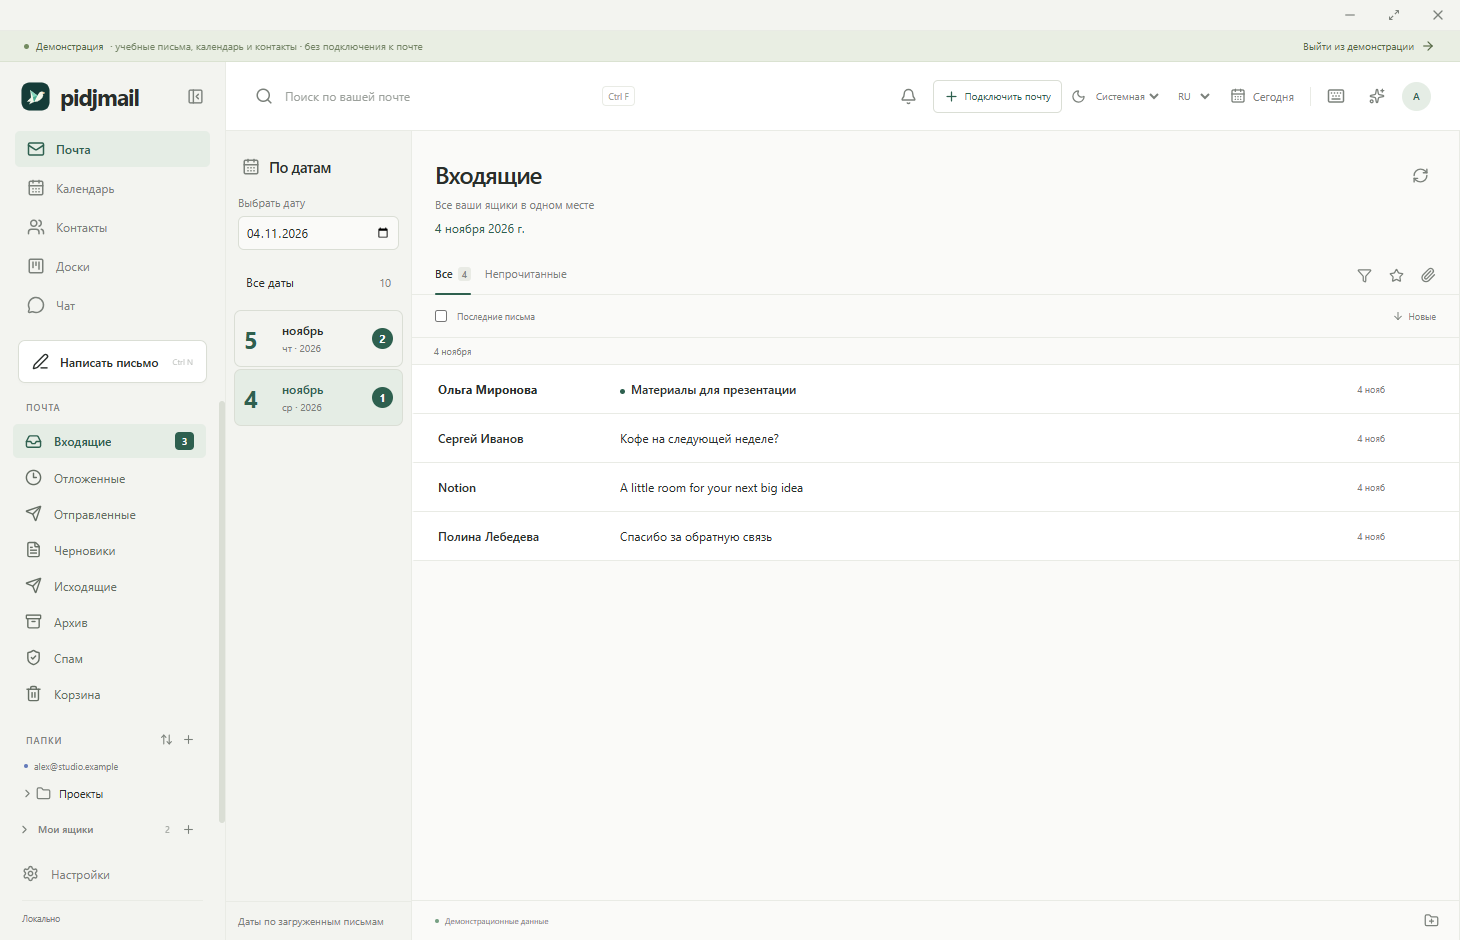
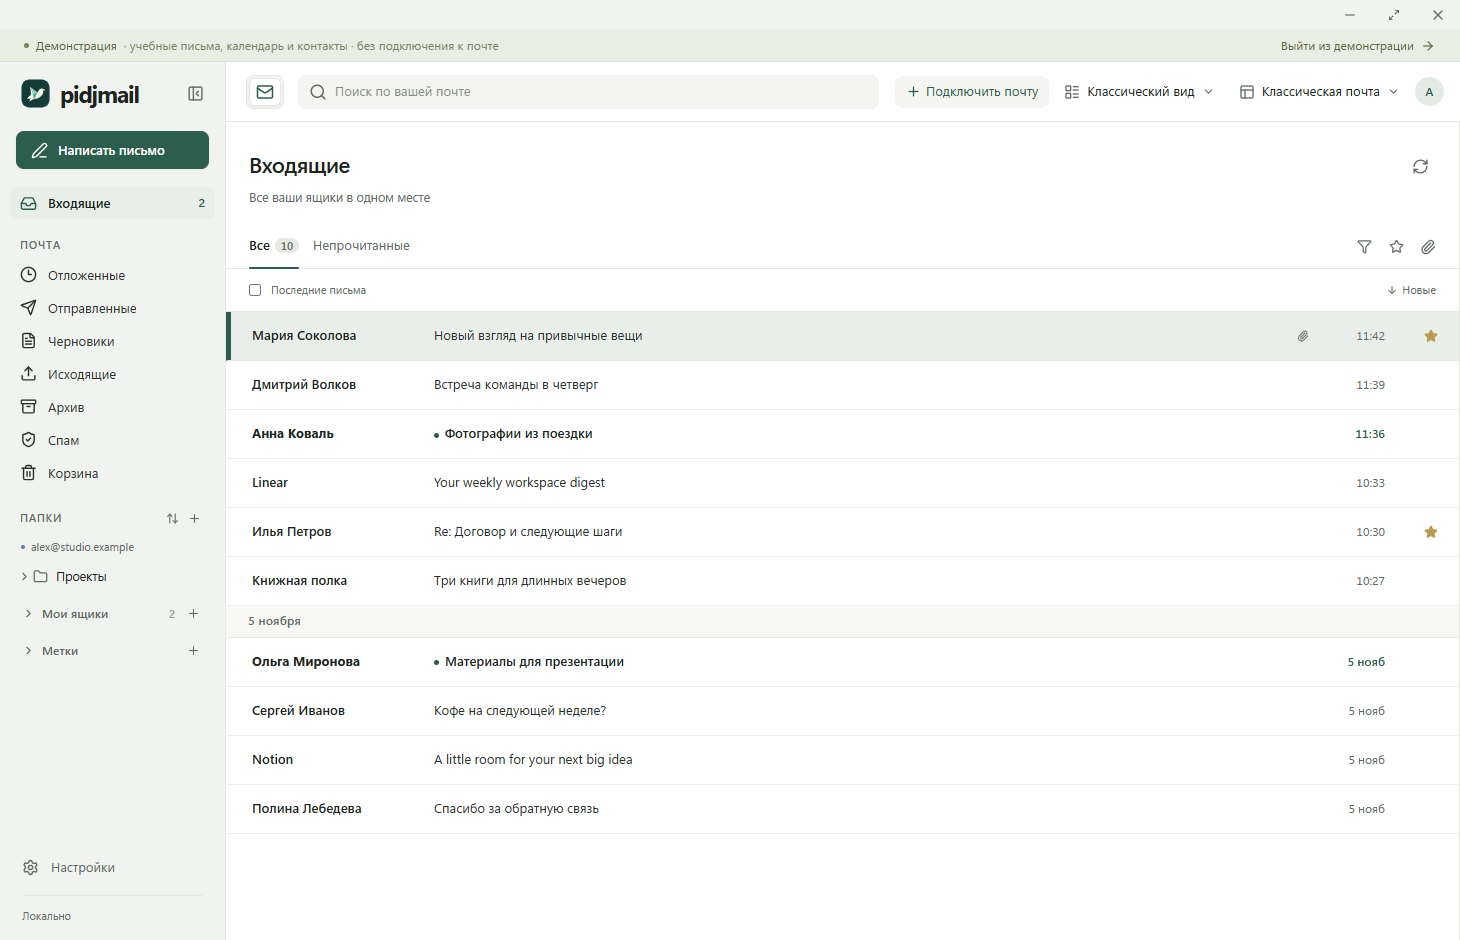
Release Pidjmail 0.2.15

diff --git a/CHANGELOG.md b/CHANGELOG.md
@@ -1,5 +1,14 @@
 # История изменений / Changelog
 
+## 0.2.15 · 2026-11-06
+
+- Быстрее с большим ящиком: поиск не пересобирает текст писем на каждую букву, ввод не ждёт фильтрации, счётчики папок считаются за один проход. Редко открываемые окна загружаются по требованию.
+- Обновлённый вид: текст не мельче 11 px, верхняя панель в одну строку с полем поиска, заметная кнопка «Написать письмо», крупнее тема письма, графитовая тёмная тема, затемнение без размытия под окнами, единые рамки фокуса. Пользовательские цвета сохраняются.
+- Собственные выпадающие списки режимов; переход в «Классическую почту» включает классический список.
+- Обновления почты имеют номер версии: при расхождении окно само запрашивает полное состояние и не теряет письма. Тексты свежих писем снова загружаются в фоне при выключенном скачивании вложений.
+- Стили XLSX читаются потоково, документы открываются по очереди (до 25 МБ), фоновая история сохраняется не чаще раза в 10 секунд.
+- 115 unit/integration, 26 packaged и 26 installed passed. Обновление с 0.2.14 и переустановка сохранили тестовый аккаунт и подписи, удаление сохранило все 65 файлов профиля. Выпуск unsigned; SHA-256 указан в release notes.
+
 ## 0.2.14 · 2026-11-06
 
 - «Классическая почта» и «Комбайн», иконки разделов над поиском, режим отображения сверху. Входящие перед папками, компактные даты/письмо, ИИ справа от обеих панелей.

diff --git a/README.ru.md b/README.ru.md
@@ -16,7 +16,7 @@
 
 ## Возможности
 
-В 0.2.14: «Классическая почта» / «Комбайн», компактные иконки разделов над поиском, фоновая проверка входящих с интервалом от 5 секунд и автоматическая история заголовков. Полноэкранный просмотр Office/PDF/картинок, масштаб и поворот. Для уведомлений — выбор монитора и непрозрачности; главное окно не меняет прозрачность. API-помощник работает с данными Pidjmail и создаёт черновики, события и задачи; веб-вход для доступа к почте по-прежнему требует отдельного MCP.
+В 0.2.15: заметно быстрее поиск и список писем в большом ящике, легче запуск. Обновлённый вид: читаемый мелкий текст, верхняя панель в одну строку с полем поиска, крупнее тема письма, спокойная графитовая тёмная тема. Синхронизация окна с данными приложения стала надёжнее, тексты свежих писем снова загружаются в фоне.
 
 <p align="center"><img src="pidjmail-modern.png" alt="Компактный интерфейс с учебной почтой" width="1000"></p>
 
@@ -63,7 +63,7 @@
 
 ## Скачать
 
-Последняя версия доступна в разделе **Releases**. Версия 0.2.14 — ранняя рабочая сборка.
+Последняя версия доступна в разделе **Releases**. Версия 0.2.15 — ранняя рабочая сборка.
 
 ➡ **[Скачать последнюю версию Pidjmail](https://github.com/AdamAnomatik/Pidjmail-Releases/releases/latest)**
 

diff --git a/README.md b/README.md
@@ -16,7 +16,7 @@ Back up the complete profile folder, including `encryption-key.json` and `Browse
 
 ## Features
 
-New in 0.2.14: Classic mail / All tools interface modes, compact icon navigation, background inbox checks down to 5 seconds and automatic header history. Full-window Office/PDF/image previews with zoom and rotation; notification display selection and opacity (notifications only). The API assistant searches actual Pidjmail data and creates drafts, events and tasks; web sign-in still requires a separate MCP connection for local data access.
+New in 0.2.15: much faster search and message list in large mailboxes, lighter startup. Refreshed look: readable small text, a one-row top bar with a search field, a larger message subject and a calm graphite dark theme. Window sync with app data is more reliable, and recent message bodies are cached in the background again.
 
 <p align="center"><img src="pidjmail-modern.png" alt="Compact combined workspace with demo mail" width="1000"></p>
 
@@ -63,7 +63,7 @@ New in 0.2.9: a separate chat window alongside mail, remembered chat service, co
 
 ## Download
 
-The latest release is available in **Releases**. Version 0.2.14 is an early working release.
+The latest release is available in **Releases**. Version 0.2.15 is an early working release.
 
 ➡ **[Download the latest version of Pidjmail](https://github.com/AdamAnomatik/Pidjmail-Releases/releases/latest)**
 
